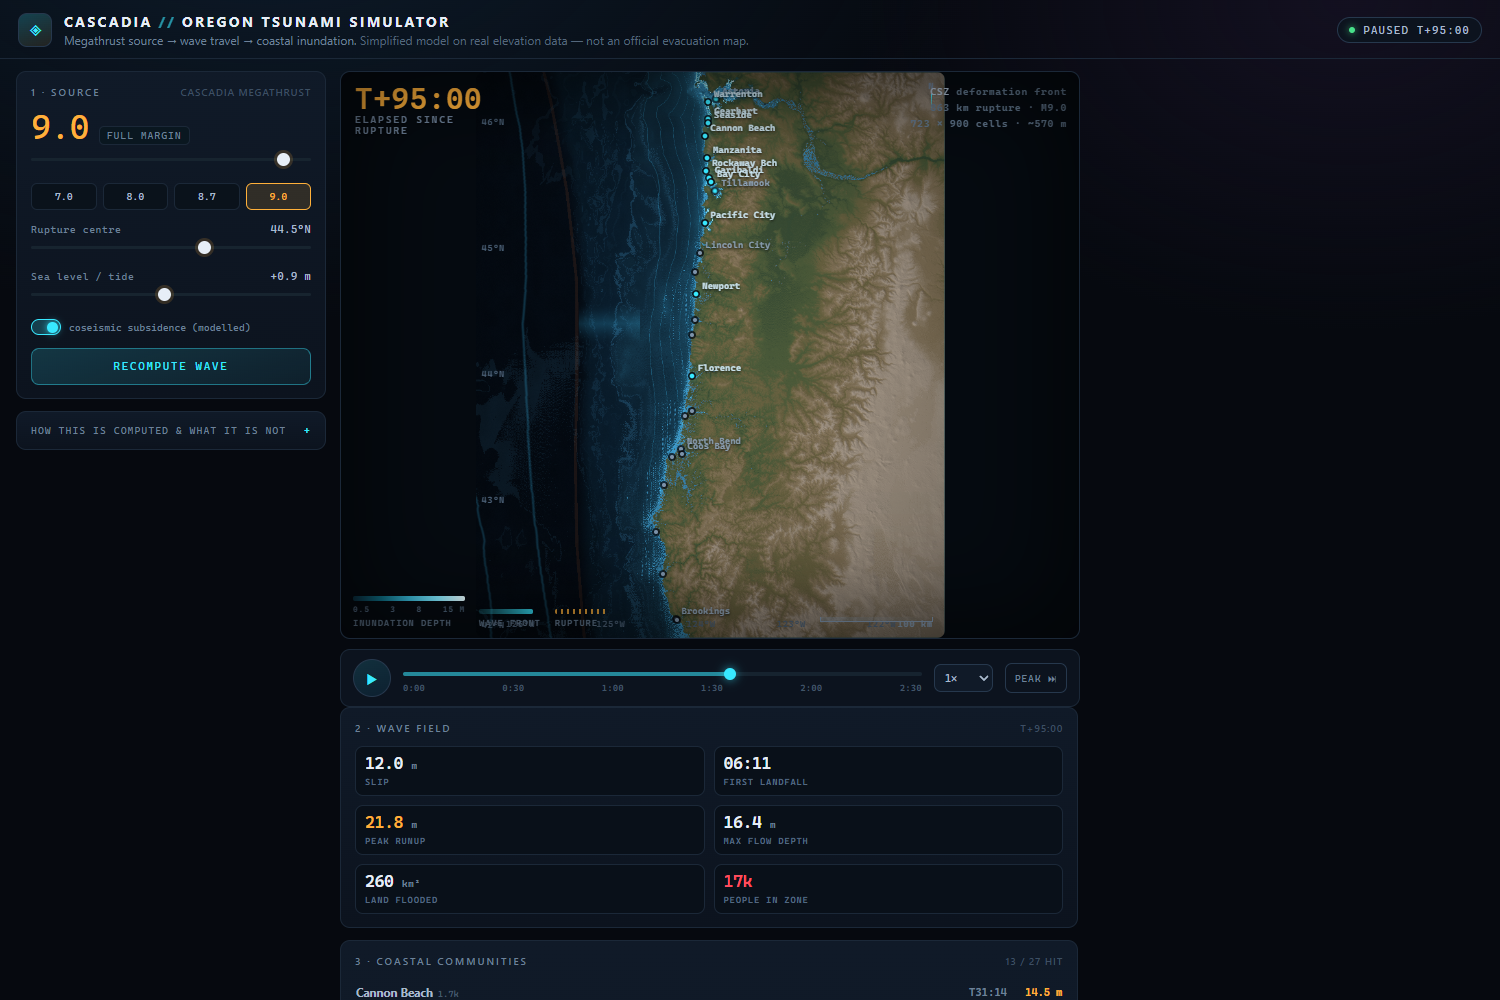
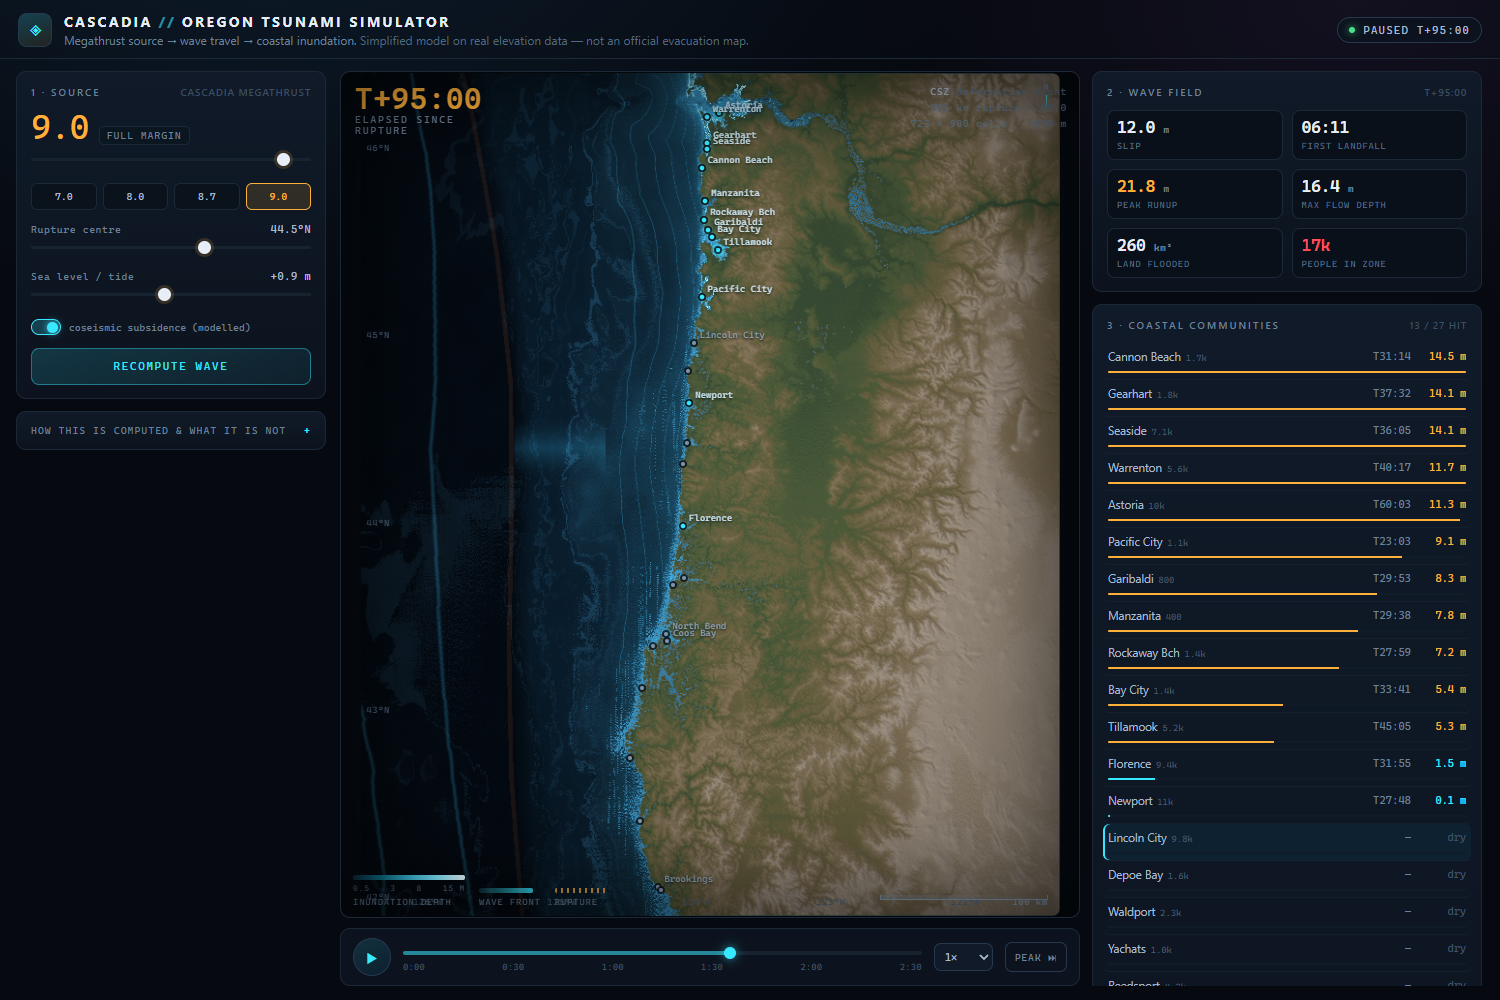
Fix unclosed tag that reparented the page, remove the resize feedback loop, guard the DOM structure

Changed region(s): [[0.2147, 0.062, 1.0, 1.0], [0.8587, 0.124, 0.92, 0.279], [0.92, 0.961, 0.9813, 0.992]]

diff --git a/scripts/shrink_probe.js b/scripts/shrink_probe.js
@@ -1,0 +1,59 @@
+// does the map canvas shrink over time? sample the layout repeatedly.
+"use strict";
+const fs = require("fs"), os = require("os"), path = require("path"), { spawn } = require("child_process");
+const url = process.argv[2] || "file:///" + path.resolve(__dirname, "..", "index.html").replace(/\\/g, "/");
+const sleep = (ms) => new Promise((r) => setTimeout(r, ms));
+const chrome = ["C:/Program Files/Google/Chrome/Application/chrome.exe"].find((x) => fs.existsSync(x));
+const profile = fs.mkdtempSync(path.join(os.tmpdir(), "shrink-"));
+const port = 9600 + (process.pid % 200);
+const child = spawn(chrome, ["--headless=new", "--no-first-run", "--hide-scrollbars", "--enable-unsafe-swiftshader",
+  "--use-gl=angle", "--use-angle=swiftshader", "--force-device-scale-factor=1",
+  "--window-size=1500,1000", "--user-data-dir=" + profile, "--remote-debugging-port=" + port, "about:blank"], { stdio: "ignore" });
+
+(async () => {
+  try {
+    let v = null;
+    for (let i = 0; i < 120 && !v; i++) {
+      try { const r = await fetch("http://127.0.0.1:" + port + "/json/version"); if (r.ok) v = await r.json(); } catch (e) {}
+      if (!v) await sleep(250);
+    }
+    const tg = (await (await fetch("http://127.0.0.1:" + port + "/json/list")).json()).find((t) => t.type === "page");
+    const ws = new WebSocket(tg.webSocketDebuggerUrl);
+    await new Promise((res) => ws.addEventListener("open", res, { once: true }));
+    let id = 0; const pend = new Map();
+    ws.addEventListener("message", (ev) => {
+      const m = JSON.parse(ev.data);
+      if (m.id && pend.has(m.id)) { const p = pend.get(m.id); pend.delete(m.id); m.error ? p.rej(new Error(m.error.message)) : p.res(m.result); }
+    });
+    const send = (method, params) => new Promise((res, rej) => { const i = ++id; pend.set(i, { res, rej }); ws.send(JSON.stringify({ id: i, method, params: params || {} })); });
+    const ev = async (e) => (await send("Runtime.evaluate", { expression: e, returnByValue: true, awaitPromise: true })).result.value;
+    await send("Runtime.enable"); await send("Page.enable");
+    await send("Page.navigate", { url });
+    for (let i = 0; i < 80; i++) { if (await ev("!!window.__READY__")) break; await sleep(250); }
+
+    const probe = `(() => { const c=document.getElementById('gl'), b=document.getElementById('mapBox'), f=document.getElementById('mapFit');
+      const r=c.getBoundingClientRect();
+      return { cw:Math.round(r.width), ch:Math.round(r.height), boxW:b.clientWidth, boxH:b.clientHeight,
+               fitW:f.style.width, fitH:f.style.height, buf:[c.width,c.height], inner:[innerWidth,innerHeight] }; })()`;
+    for (let i = 0; i < 8; i++) {
+      console.log(i + "s", JSON.stringify(await ev(probe)));
+      await sleep(1000);
+    }
+    await ev("window.__SETT__ ? window.__SETT__(45) : 0");
+    await sleep(600);
+    const layout = await ev(`(() => {
+      const r = (id) => { const e = document.getElementById(id); if (!e) return null;
+        const b = e.getBoundingClientRect(); return [Math.round(b.left), Math.round(b.top), Math.round(b.width)]; };
+      return JSON.stringify({ railL: r('railL'), stage: r('stage'), railR: r('railR'), main: r('main') || (() => { const m = document.querySelector('main').getBoundingClientRect(); return [Math.round(m.left), Math.round(m.top), Math.round(m.width)]; })() });
+    })()`);
+    console.log("layout", layout);
+    const shot = await send("Page.captureScreenshot", { format: "png" });
+    fs.writeFileSync(path.join(__dirname, "..", "artifacts", "shrink.png"), Buffer.from(shot.data, "base64"));
+    console.log("shot -> artifacts/shrink.png");
+  } catch (e) {
+    console.log("ERR " + e.message);
+  } finally {
+    try { child.kill(); } catch (e) {}
+    setTimeout(() => process.exit(0), 300);
+  }
+})();

diff --git a/index.html b/index.html
@@ -234,8 +234,9 @@ input[type=range].flat::-moz-range-thumb{width:13px;height:13px;border:0;border-
   main{grid-template-columns:288px minmax(0,1fr) 356px;padding:10px 12px 12px;gap:10px}
 }
 @media (max-width:1120px){
-  main{grid-template-columns:minmax(0,1fr) 340px;
+  main{grid-template-columns:minmax(0,1fr) 340px;grid-template-rows:minmax(0,1fr) auto;
        grid-template-areas:"stage railR" "railL railR"}
+  #stage{min-height:420px}
   #stage{grid-area:stage} #railR{grid-area:railR} #railL{grid-area:railL;
        flex-direction:row;overflow:visible;align-items:flex-start}
   #railL .card{flex:1 1 0;min-width:0}
@@ -243,11 +244,9 @@ input[type=range].flat::-moz-range-thumb{width:13px;height:13px;border:0;border-
 @media (max-width:860px){
   body{overflow:auto}
   #app{height:auto;min-height:100dvh}
-  main{grid-template-columns:1fr;grid-template-areas:"stage" "railL" "railR";padding:10px}
-  html,body,#app,main{max-width:100vw;overflow-x:hidden}
+  main{grid-template-columns:minmax(0,1fr);grid-auto-rows:auto;grid-template-areas:"stage" "railL" "railR";padding:10px}
+  html,body,#app,main{max-width:100vw}
   #stage,#railL,#railR,#mapBox{min-width:0;max-width:100%}
-  #mapFit{width:100%!important;height:auto!important}
-  canvas#gl{width:100%!important;height:auto!important;aspect-ratio:723/900}
   #stage{height:min(78vh,640px)}
   #railL,#railR{overflow:visible}
   #railL{flex-direction:column}
@@ -308,7 +307,7 @@ input[type=range].flat::-moz-range-thumb{width:13px;height:13px;border:0;border-
                 (SRTM/NED on land, ETOPO bathymetry offshore). Populations are rounded 2020 census
                 figures; "people in zone" is population × the flooded fraction of each town's 2.5 km
                 disc — an exposure indicator, <b>not</b> a casualty forecast.</p>
-              <p><b>Arrival times. With the animation running, a 520 m grid puts the front
+              <p><b>Arrival times.</b> With the animation running, a 520 m grid puts the front
             crossing the 30 km of 50–150 m deep shelf at 10–30 m/s, so the model is a few
             minutes slower than the DOGAMI/NOAA figures: a weak leading signal reaches the
             beach in the first 5–10 minutes (that is the coseismic withdrawal you would see),
@@ -1188,6 +1187,7 @@ var Core = (function () {
     }
   }
 
+  var lastFitW = 0, lastFitH = 0;
   function fitCanvas() {
     var box = document.getElementById("mapBox");
     var fitEl = document.getElementById("mapFit");
@@ -1196,6 +1196,9 @@ var Core = (function () {
     var aspect = proj.aspect || 0.7015;
     var w = availW, h = w / aspect;
     if (h > availH) { h = availH; w = h * aspect; }
+    // guard: never re-fit to the size we just set, whatever triggered the call
+    if (Math.abs(w - lastFitW) < 8 && Math.abs(h - lastFitH) < 8) return;
+    lastFitW = w; lastFitH = h;
     fitEl.style.width = Math.round(w) + "px";
     fitEl.style.height = Math.round(h) + "px";
     canvas.style.width = Math.round(w) + "px";
@@ -1617,11 +1620,7 @@ var Core = (function () {
     fitCanvas();
     bindControls();
     window.addEventListener("resize", function () { fitCanvas(); });
-    // the map box can change size without a window resize (media queries, scrollbars, fonts)
-    if (window.ResizeObserver) {
-      var ro = new ResizeObserver(function () { fitCanvas(); });
-      ro.observe(document.getElementById("mapBox"));
-    }
+    window.addEventListener("orientationchange", function () { setTimeout(fitCanvas, 120); });
     var bytes = b64ToBytes(D.elev);
     inflate(bytes).then(function (q) {
       state.model = buildModel(q);

diff --git a/src/index.html b/src/index.html
@@ -234,8 +234,9 @@ input[type=range].flat::-moz-range-thumb{width:13px;height:13px;border:0;border-
   main{grid-template-columns:288px minmax(0,1fr) 356px;padding:10px 12px 12px;gap:10px}
 }
 @media (max-width:1120px){
-  main{grid-template-columns:minmax(0,1fr) 340px;
+  main{grid-template-columns:minmax(0,1fr) 340px;grid-template-rows:minmax(0,1fr) auto;
        grid-template-areas:"stage railR" "railL railR"}
+  #stage{min-height:420px}
   #stage{grid-area:stage} #railR{grid-area:railR} #railL{grid-area:railL;
        flex-direction:row;overflow:visible;align-items:flex-start}
   #railL .card{flex:1 1 0;min-width:0}
@@ -243,11 +244,9 @@ input[type=range].flat::-moz-range-thumb{width:13px;height:13px;border:0;border-
 @media (max-width:860px){
   body{overflow:auto}
   #app{height:auto;min-height:100dvh}
-  main{grid-template-columns:1fr;grid-template-areas:"stage" "railL" "railR";padding:10px}
-  html,body,#app,main{max-width:100vw;overflow-x:hidden}
+  main{grid-template-columns:minmax(0,1fr);grid-auto-rows:auto;grid-template-areas:"stage" "railL" "railR";padding:10px}
+  html,body,#app,main{max-width:100vw}
   #stage,#railL,#railR,#mapBox{min-width:0;max-width:100%}
-  #mapFit{width:100%!important;height:auto!important}
-  canvas#gl{width:100%!important;height:auto!important;aspect-ratio:723/900}
   #stage{height:min(78vh,640px)}
   #railL,#railR{overflow:visible}
   #railL{flex-direction:column}
@@ -308,7 +307,7 @@ input[type=range].flat::-moz-range-thumb{width:13px;height:13px;border:0;border-
                 (SRTM/NED on land, ETOPO bathymetry offshore). Populations are rounded 2020 census
                 figures; "people in zone" is population × the flooded fraction of each town's 2.5 km
                 disc — an exposure indicator, <b>not</b> a casualty forecast.</p>
-              <p><b>Arrival times. With the animation running, a 520 m grid puts the front
+              <p><b>Arrival times.</b> With the animation running, a 520 m grid puts the front
             crossing the 30 km of 50–150 m deep shelf at 10–30 m/s, so the model is a few
             minutes slower than the DOGAMI/NOAA figures: a weak leading signal reaches the
             beach in the first 5–10 minutes (that is the coseismic withdrawal you would see),
@@ -1188,6 +1187,7 @@ var Core = (function () {
     }
   }
 
+  var lastFitW = 0, lastFitH = 0;
   function fitCanvas() {
     var box = document.getElementById("mapBox");
     var fitEl = document.getElementById("mapFit");
@@ -1196,6 +1196,9 @@ var Core = (function () {
     var aspect = proj.aspect || 0.7015;
     var w = availW, h = w / aspect;
     if (h > availH) { h = availH; w = h * aspect; }
+    // guard: never re-fit to the size we just set, whatever triggered the call
+    if (Math.abs(w - lastFitW) < 8 && Math.abs(h - lastFitH) < 8) return;
+    lastFitW = w; lastFitH = h;
     fitEl.style.width = Math.round(w) + "px";
     fitEl.style.height = Math.round(h) + "px";
     canvas.style.width = Math.round(w) + "px";
@@ -1617,11 +1620,7 @@ var Core = (function () {
     fitCanvas();
     bindControls();
     window.addEventListener("resize", function () { fitCanvas(); });
-    // the map box can change size without a window resize (media queries, scrollbars, fonts)
-    if (window.ResizeObserver) {
-      var ro = new ResizeObserver(function () { fitCanvas(); });
-      ro.observe(document.getElementById("mapBox"));
-    }
+    window.addEventListener("orientationchange", function () { setTimeout(fitCanvas, 120); });
     var bytes = b64ToBytes(D.elev);
     inflate(bytes).then(function (q) {
       state.model = buildModel(q);

diff --git a/scripts/browser_check.js b/scripts/browser_check.js
@@ -128,6 +128,16 @@ async function waitFor(fn, ms, label) {
     if (booterr) throw new Error("boot: " + booterr);
     await sleep(600);
 
+    // a stray unclosed tag can reparent whole sections out of <main>; catch it structurally
+    const struct = JSON.parse(await cdp.eval(`JSON.stringify((function(){
+      var m = document.querySelector('main');
+      var kids = [].map.call(m.children, function(c){ return c.tagName + '#' + c.id; });
+      return { kids: kids, n: kids.length,
+               bolds: document.querySelectorAll('main > b, main > i, main > span').length };
+    })())`));
+    ok(struct.n === 3 && struct.bolds === 0, "main holds exactly three top-level sections",
+      struct.kids.join(' '));
+
     const p1 = await cdp.eval("JSON.stringify(window.__PROBE__())");
     const P1 = JSON.parse(p1);
     ok(P1.ready === true, "model ready", "cells=" + P1.cells);
